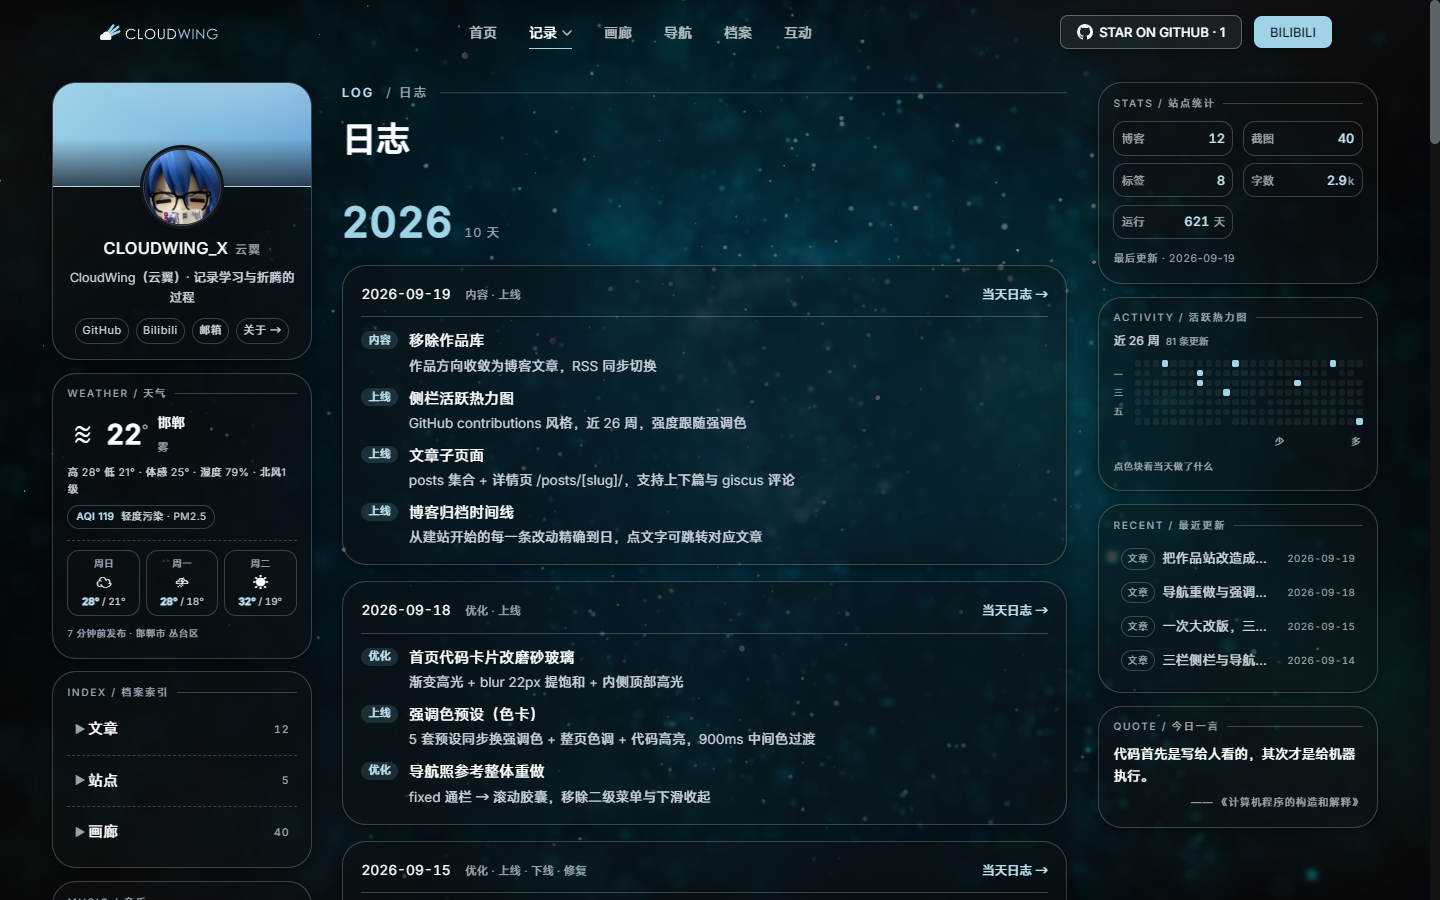
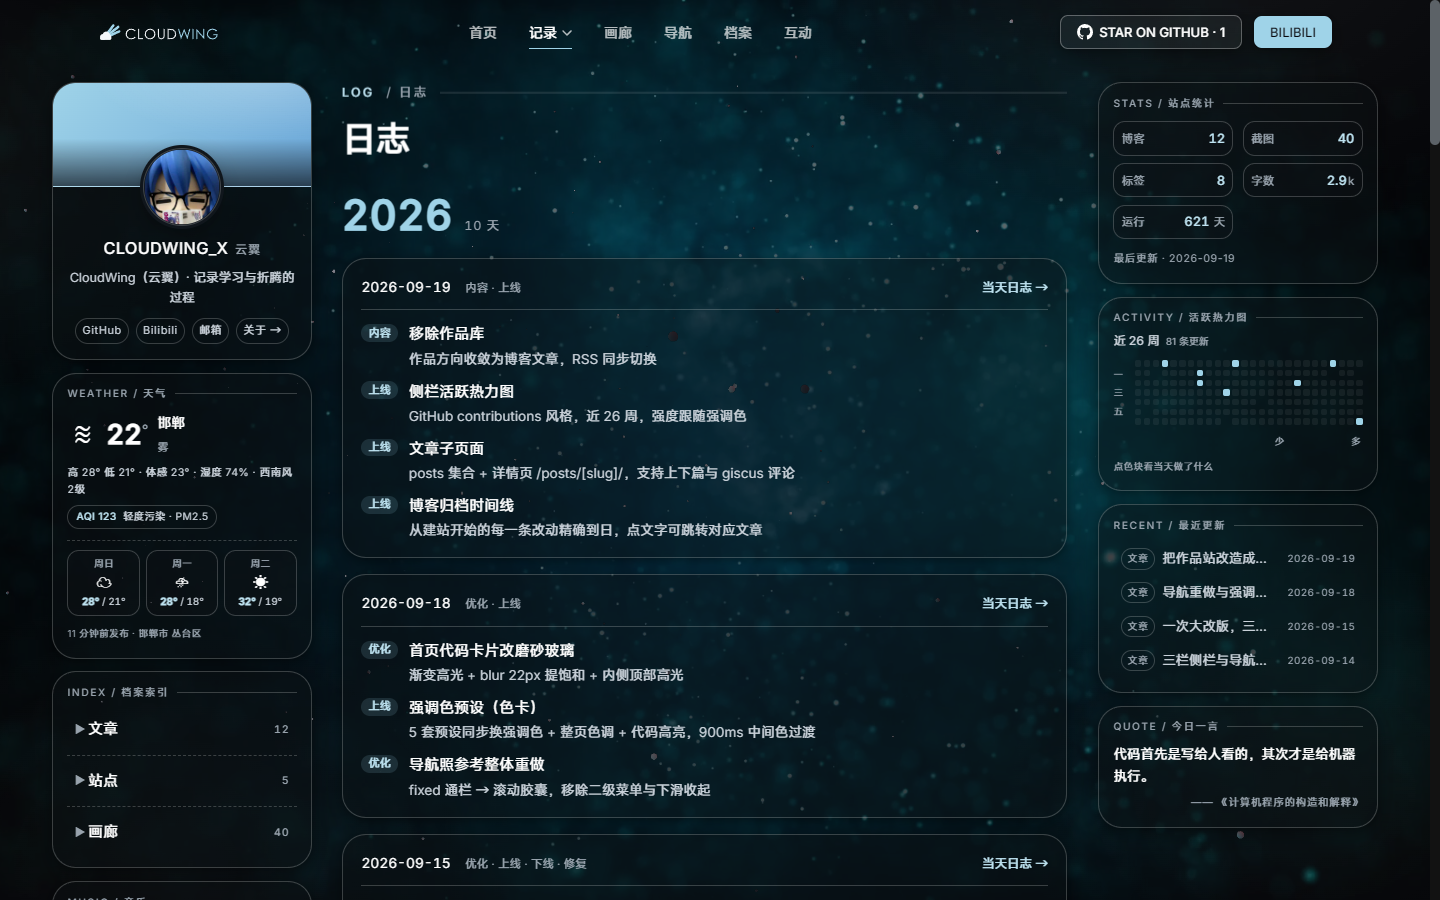
feat: 「记录」三页 + 档案页与其余子页面壳层统一
- 标题→内容间距全站 1.6rem：posts/blog/log head margin-bottom 2rem→1.6rem；nav section 1.7→1.6rem；about/account 在 shell.css 补齐（who padding-top 0.55rem 阻断 p 的 UA margin 塌陷、room-card margin-top 0.4rem）
- 档案页页头改「档案」：kicker PROFILE / 档案；h1 ProximityText label 改为页面名（邻近特效保留）；title 改「档案」
- verify-shell 扩到 50/50：新增 7 页标题→内容间距断言（卡片型盒间距 / about 平文型首文本顶，分页口径表）
- verify-videobg 全量首跑 21/22 为视频帧时序假失败，复跑两次 22/22；全量有效口径 20/20
- HANDOFF 新增 §53，两份同步

diff --git a/src/styles/shell.css b/src/styles/shell.css
@@ -75,6 +75,16 @@
   .shell .room-stage {
     padding-top: 0;
   }
+  /* about 的 16.8 与 account 的 19.2 是两种成因：
+     about = .who 里首个 p.txt 的 UA margin-top(1em=16.8px) **塌出 section** —— 用
+     padding-top 阻断塌陷（margin-top 会与塌陷值取 max 而无效），8.8+16.8=25.6 ✓；
+     account 直接 margin-top 补齐。 */
+  .shell .who {
+    padding-top: 0.55rem;
+  }
+  .shell .room-card {
+    margin-top: 0.4rem;
+  }
   /* kicker 与标题、标题与下方内容之间的间距一并收紧（标题变小后原来的间距显得空） */
   .shell .page-head .kicker,
   .shell .work-head .no-big {

diff --git a/docs/HANDOFF.md b/docs/HANDOFF.md
@@ -10,7 +10,9 @@
 > （见 §43.1），其"简版硬规则"职责并入本文件。
 > 文中的本机路径（`D:\deep seek workplace\...`、Edge 路径、代理端口）来自开发机，换机器请按实际情况替换。
 >
-> 最后更新：2026-09-20 凌晨 **壳层统一：子页面页头格式统一（kicker「EN / 中文」、删标题下描述）、
+> 最后更新：2026-09-20 凌晨第二轮 **「记录」三页（文章/归档/日志）+ 档案页与其余子页面壳层统一：
+> 标题→内容间距全站 1.6rem、档案页页头改「PROFILE / 档案 + h1 档案」（ProximityText 特效保留），见 §53**；
+> 同日凌晨 **壳层统一：子页面页头格式统一（kicker「EN / 中文」、删标题下描述）、
 > 内容列顶部与侧栏首卡顶边全页对齐（偏差 0），见 §52**；
 > 2026-09-19 深夜 **顶栏新增「记录」悬停下拉——文章/归档/日志收进一个入口，见 §51**；
 > 同日晚 **新增「日志」子页面 `/log/`——changelog 的完整展开版，见 §50**；
@@ -37,7 +39,8 @@
 > 功能模块 → 相关模块脚本 + 关键路径 e2e；
 > **全量回归 `run-regress.mjs` 只在 PR 前 / 合并前 / 发布前 / 站长明确要求时跑，且优先交给 CI**。
 > 自检入口仍为 `cd endfield-blog && node scripts/run-regress.mjs`（**现为 20 个脚本**一次批跑）→
-> 最近一次 **20/20 全绿**（2026-09-20 凌晨，壳层统一 + 第 20 号脚本 `verify-shell` 加入后的发布前全量，见 §52.4；
+> 最近一次 **20/20 全绿**（2026-09-20 凌晨 §53 发布前全量；其中 `verify-videobg` 首跑 21/22
+> 为视频帧采样的时序假失败，复跑两次 22/22，同 §46.5 判据）；
 > 此前 19/19 见 §51.3 / §50.4；
 > 上一轮 18 脚本时代 18/18 见 §49.4；上一轮 16 脚本时代为 15/16，唯一失败项 `verify-videobg` 经复跑证实为时序假失败，见 §46.5）。
 > （单个入口 `node scripts/smoke.mjs` 为 **53/53**）。
@@ -1501,7 +1504,7 @@ const ws = new WebSocket(tab.webSocketDebuggerUrl);
 | `verify-copy.mjs` | ★**文案断言**：① 禁用词（浅色通透 / 双主题 / 主题切换 / 开灯… 等"描述已删除功能"的措辞）不得出现在任何页面的可见文案与 meta；② 占位词（TODO/待补/lorem…）不得出现；③ 文案锚点 —— `site.ts` 的 notice/tagline 非空且不含禁用词，notice 必须出现在关于页可见文案、tagline 必须出现在 meta description；④ 每页都有非空 title/description。**只扫页面固定文案与 meta，不扫文章正文**（历史文章合法会提"浅色主题/作品库"） | **31/31** |
 | `verify-nav-icons.mjs` | ★**图标静态断言**（纯 Node，不需要浏览器）：① `SITE_NAV` 每个 `icon` 路径在 `public/` 下真实存在且形如 `/nav/<slug>.png\|svg`；② `public/nav/` 无孤儿文件；③ 已构建时每个 icon 都进了 `dist/nav/`、页面引用集合与声明一致；④ **带 `--ico` 的图标位内无文本**（防 §48.6 "图标与首字圆牌重叠"复发）；⑤ **[E] SVG 最亮 `fill` 相对亮度 ≥ 0.12**（防 §48.3 "近黑 logo 在暗卡上等于没画"）。⚠ ⑤ 只查 SVG，PNG 是已知盲区 | **9/9** |
 | `verify-interaction.mjs` | ★**交互基线断言**（§49）：A 鼠标拖过正文选不中 + **A′ 对照组**（放行 `user-select` 后同样拖拽必须能选中，证"拖拽确实生效"；**2026-09-20 起对照文本改用右栏引文 `.sw-quote blockquote`**——标题下描述已按 §52 全站删除）；B 点击头像/导航卡/图标位后无轮廓；C Tab 聚焦必有可见轮廓且不带 `data-pointer-focus`；D 指针点文本输入框仍保留轮廓；E `body=none` / `input=text`；**F 真实文章页拖过 `.pp-md p` 必须选中**（保护 §49.3 刻意保留的例外） | **12/12** |
-| `verify-shell.mjs` | ★**壳层一致性断言**（§52）：7 个子页面逐页验 ① 内容顶与侧栏首卡顶对齐（≤1px）；② kicker 是「EN / 中文」格式（无「· 后缀」）；③ 标题下无描述简介（`.txt`/`.sub` 不许是 page-head 直接子元素）；④ h1 非空；⑤ 无横向溢出 —— 防页头格式与顶对齐再次漂移 | **43/43** |
+| `verify-shell.mjs` | ★**壳层一致性断言**（§52/§53）：7 个子页面逐页验 ① 内容顶与侧栏首卡顶对齐（≤1px）；② kicker 是「EN / 中文」格式（无「· 后缀」）；③ 标题下无描述简介（`.txt`/`.sub` 不许是 page-head 直接子元素）；④ **标题→内容间距符合全站 1.6rem 节奏（§53：卡片/区块边界型量盒间距、about 平文型量首文本顶，分页口径表）**；⑤ h1 非空；⑥ 无横向溢出 —— 防页头格式、顶对齐与间距节奏再次漂移 | **50/50** |
 | `verify-log.mjs` | ★**日志页断言**（§50）：A 落在 `/log/` 且标题为「日志」；B 结构（年分组新→旧、每日期卡非空、条目徽标+标题、note 与「当天日志 →」链接在、无空态兜底）；C 导航三处注册（顶栏/左栏/当前高亮）；D 玻璃材质（backdrop-filter）+ 无横向溢出；E 运行时 0 异常。断言刻意用**相对计数**（不写死天数/条数），加 changelog 不会误报 | **15/15** |
 | `contrast-audit.mjs` | WCAG 对比度审计（逐节点"前景 vs 实际合成背景"） | 暗色 **0 处不达标** |
 | `mobile-shots.mjs` | 三机型视口 × 8 页截图 + 横向溢出统计 | **24/24 无溢出**（2026-09-19 晚 `/log/` 后 21 → 24） |
@@ -2754,6 +2757,50 @@ node scripts/verify-interaction.mjs https://cloudwing.pages.dev
   nav 21/21、nav-shrink 40/40。
 - **发布前全量 20 脚本：20/20 全绿**（§47.2 发布前触发）。
 - 对齐实况截图：`_shots/shell-aligned.png`（/blog/ 三栏，kicker 与左栏个人信息卡顶边同线）。
+
+
+---
+
+## §53 「记录」三页 + 档案页与其余子页面壳层统一（2026-09-20 凌晨第二轮）
+
+> 站长需求：**「把记录页面下的三个子页面（文章/归档/日志）和档案页面（目前这四个页面不一样）
+> 与其他子页面的壳层统一」**。
+
+### 53.1 改前实测的差异（探针逐页量）
+
+| 页 | 标题→内容间距 | 与众不同处 |
+|---|---|---|
+| /posts /blog /log | **32px**（页面内 `.page-head { margin-bottom: 2rem }`） | 各自的 root 包装层 |
+| /about | **16.8px** + **h1 是作者名 CloudWing_X**（ProximityText） | 页头不是页面名 |
+| /gallery /nav | 25.6 / 27.2px（section 自带 padding-top） | ——（当作基准） |
+| /account | 19.2px（玻璃卡） | —— |
+
+### 53.2 统一动作
+
+- **标题→内容间距全站统一 1.6rem（25.6px）**：posts/blog/log 页内 `margin-bottom 2rem → 1.6rem`；
+  nav `section padding-top 1.7rem → 1.6rem`；about/account 在 shell.css 补齐
+  （`.shell .who { padding-top: 0.55rem }`、`.shell .room-card { margin-top: 0.4rem }`）。
+- **档案页页头改「档案」**：kicker `PROFILE / 档案`、h1 = `ProximityText label="档案"`
+  （**邻近特效保留**，只把作用的文字从作者名换成页面名）、浏览器标签 title 改「档案」。
+  此前 h1 是 `SITE.author`——全站唯一一个"标题不是页面名"的子页面。
+- 顶对齐（§52）不受影响，7 页偏差仍全 0。
+
+### 53.3 期间又踩/又堵的坑
+
+- **margin 塌陷二番战**：about 的间距 16.8px 真凶是 `.who` 首段 `p.txt` 的 **UA margin-top（1em=16.8px）
+  塌出 section**。第一版用 `margin-top: 0.55rem` 补偿——**与塌陷值取 max 而完全无效**（断言抓出仍 16.8）；
+  改成 `padding-top` **阻断塌陷**后 8.8+16.8=25.6 ✓。
+  ⚠ 规律（§52.2 坑① 的推广）：**UA 默认 margin（p/h 系）+ 无 padding/border 的父级 = 塌陷三连，
+  补偿要用 padding 或显式 margin:0，不能对着塌陷值加 margin**。
+- **verify-videobg 全量首跑 21/22**（hero 副标题可读性）：本轮没动首页，复跑两次 **22/22** ——
+  视频帧内容随机的**时序假失败**，与 §46.5 同判据。全量有效口径 **20/20**。
+
+### 53.4 验收与上线
+
+- `verify-shell` 扩到 **50/50**（新增 7 页「标题→内容间距」断言；卡片/区块边界型量**盒间距**、
+  about 平文型量**首文本顶**，分页口径表写在脚本里并注明原因）。
+- **发布前全量 20 脚本：20/20**（videobg 假失败复跑口径，见 §53.3）。
+- 档案页实况截图：`_shots/about-unified.png`。
 - 调试环境注：本轮 CDP 无头浏览器（`cwcdp3` profile）出现"本地页面在 ~2500 字符处
   readyState 停滞"的实例级损坏  （外部站点正常）——**换回健康的 `cwcdp2` profile +
   `--disable-background-networking` 重启即恢复**。排查时先杀旧实例再换 profile，别急着改页面代码。
